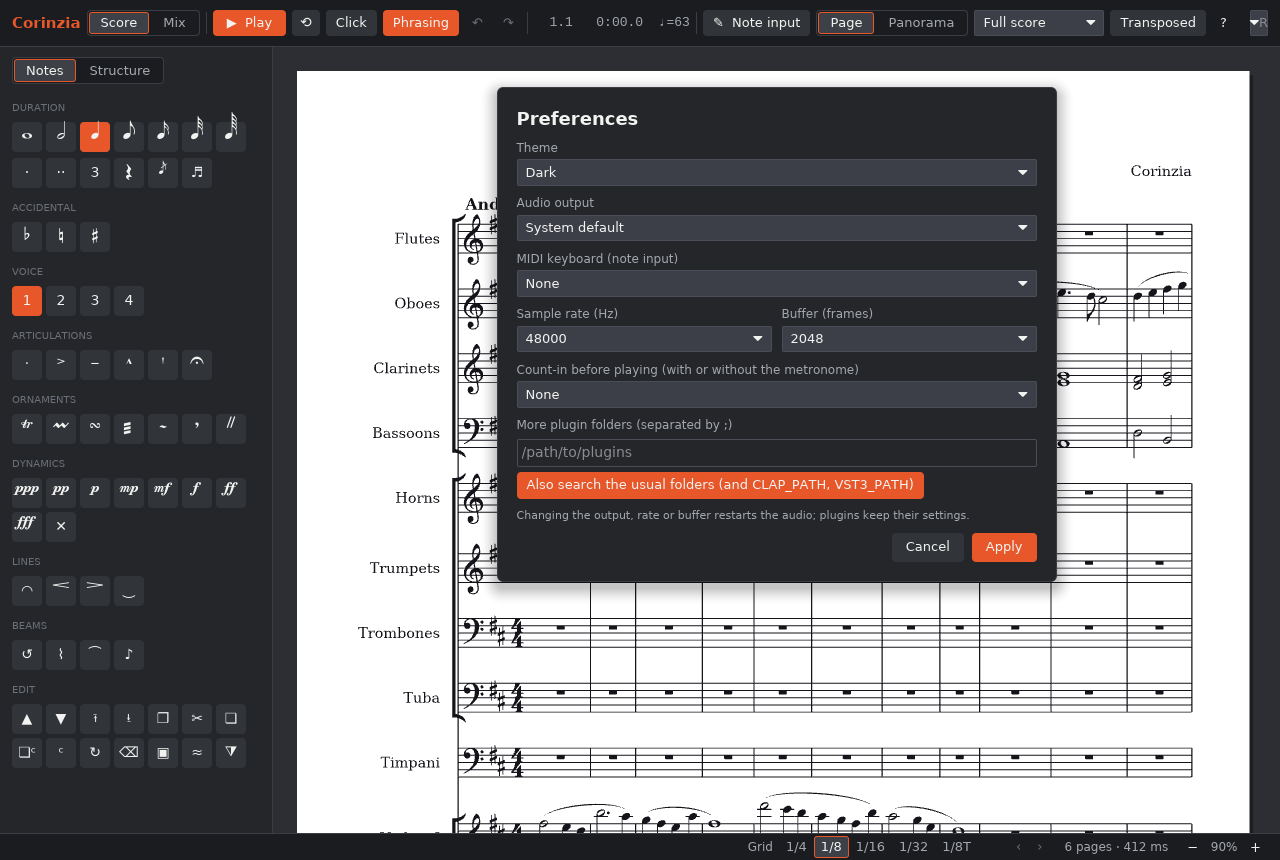
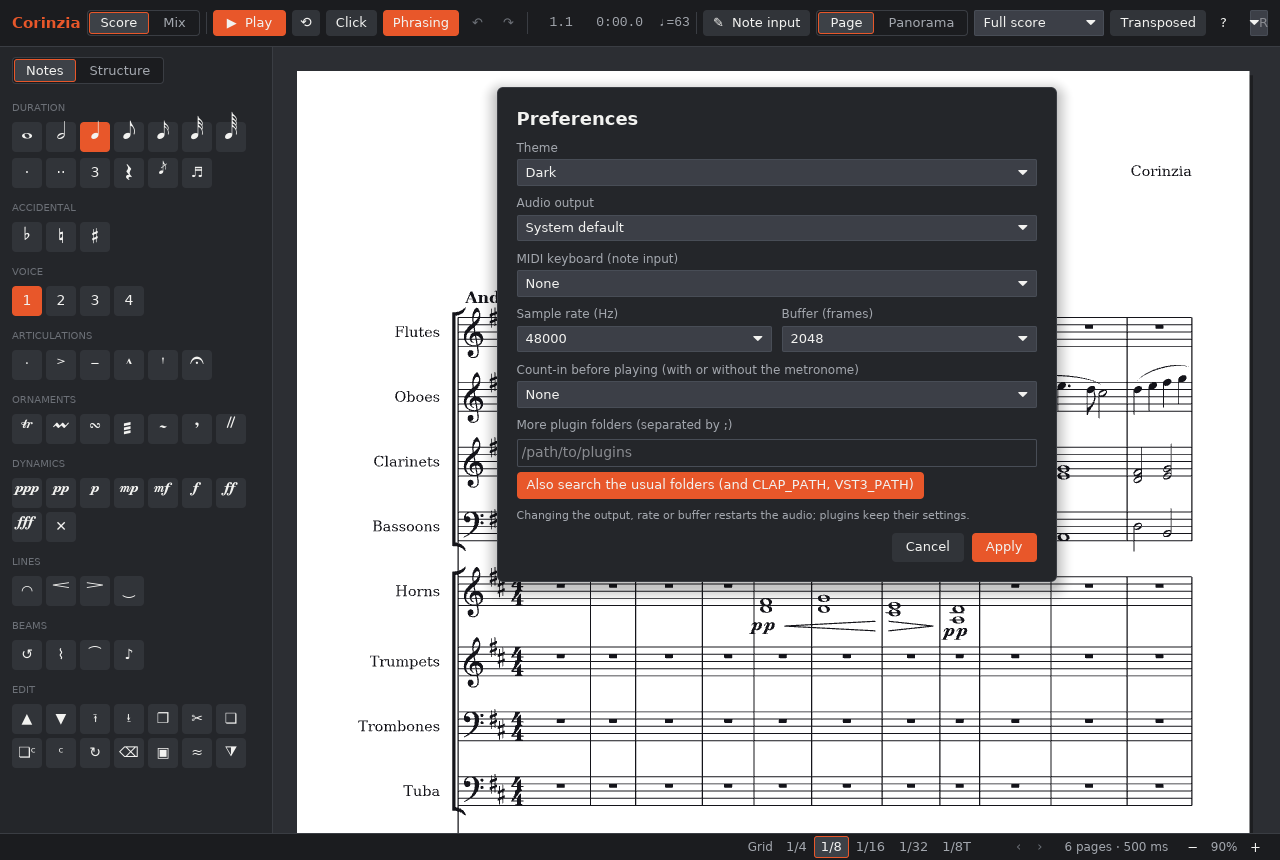
Systems on pages as LilyPond's vertical spacing places them
- Systems are spaced between their nearest staves' middle lines by
  LilyPond's paper defaults: top-system-spacing (6, padding 1),
  system-system-spacing (12, at least 8, padding 1 between the systems'
  skylines, stretchability 60), last-bottom-spacing (1, padding 1,
  stretchability 30), padding 0.5 below the title block.
- Page breaks as LilyPond's optimal page breaker weighs them: each page
  costs its force squared, stretched or squeezed; the last page only if
  squeezed. Every page but the last is filled to its bottom margin.
- The layout's system gap is now that padding; new projects start at
  LilyPond's 1 space (saved projects keep theirs).
- Docs, README and credits updated for this batch; README screenshots
  regenerated.

Claude-Session: https://claude.ai/code/session_01QjHNtvPJsKReBtAF1HaKBb

Changed region(s): [[0.2812, 0.2419, 0.9375, 0.9977]]

diff --git a/rust/corinzia-layout/src/layout.rs b/rust/corinzia-layout/src/layout.rs
@@ -193,7 +193,7 @@ fn dot_rows(positions: &[i32], dir: i32) -> Vec<i32> {
         let mut total = heads.len();
         let mut first = 0;
         while total > room {
-            if (total - room) % 2 == 0 {
+            if (total - room).is_multiple_of(2) {
                 first += 1;
             }
             total -= 1;
@@ -2325,7 +2325,6 @@ impl<'a> Engraver<'a> {
                 continue;
             }
             let top = self.top(n.part);
-            let center = |g: Glyph, s: &Self| n.x + HEAD_W / 2.0 - s.width(g) / 2.0;
             let poly = self.notes.iter().any(|o| o.part == n.part && o.measure == n.measure && o.voice != n.voice && !o.whole_bar);
             if !n.rest {
                 // Close articulations as LilyPond's Script: on the notehead
@@ -2337,7 +2336,7 @@ impl<'a> Engraver<'a> {
                 // too (it joins their support), by at least staff-padding.
                 let below = if poly { n.voice % 2 == 0 } else { n.stem_up };
                 let dir = if below { 1.0 } else { -1.0 }; // y down
-                let stem_side = n.has_stem() && n.stem_up == !below;
+                let stem_side = n.has_stem() && n.stem_up != below;
                 let outer = if below { n.heads[0].pos } else { n.heads[n.heads.len() - 1].pos };
                 let mut edge = self.y(n.part, outer) + dir * 0.5;
                 if stem_side {
@@ -3818,9 +3817,6 @@ fn system(score: &Score, opt: &Options, ms: &[Measure], notes: &[Note], a: usize
     engrave_spaced(score, opt, sm, sn, a == 0, width)
 }
 
-/// The most a full page's systems are moved apart to reach its bottom.
-const MAX_EXTRA_SYSTEM_GAP: f32 = 12.0;
-
 /// Page geometry in staff spaces (A4 at an 18 pt staff: 132.3 × 187.1).
 #[derive(Clone, Debug)]
 pub struct PageSpec {
@@ -3828,7 +3824,8 @@ pub struct PageSpec {
     pub height: f32,
     pub margin_x: f32,
     pub margin_y: f32,
-    /// Space between systems (between their outermost marks).
+    /// The least space between systems' outermost marks (LilyPond's
+    /// `system-system-spacing` padding; its other distances apply too).
     pub system_gap: f32,
     /// The number of the first page (a later movement goes on counting).
     pub first_page: usize,
@@ -3841,7 +3838,7 @@ pub struct PageSpec {
 }
 impl Default for PageSpec {
     fn default() -> Self {
-        PageSpec { width: 132.3, height: 187.1, margin_x: 8.0, margin_y: 8.0, system_gap: 4.0, first_page: 1, bars_per_system: 0, page_numbers: true, space_pt: 0.0 }
+        PageSpec { width: 132.3, height: 187.1, margin_x: 8.0, margin_y: 8.0, system_gap: 1.0, first_page: 1, bars_per_system: 0, page_numbers: true, space_pt: 0.0 }
     }
 }
 
@@ -3982,63 +3979,168 @@ pub fn layout_pages(score: &Score, opt: &Options, page: &PageSpec) -> Vec<Displa
         }
         y += 2.0;
     }
-    // Where each system's items and staves start on the current page, and
-    // how far down the page is used: full pages are justified vertically.
-    let mut starts: Vec<(usize, usize)> = Vec::new();
-    let mut used = y;
-    let fill = |page_list: &mut DisplayList, starts: &[(usize, usize)], used: f32| {
-        if starts.len() < 2 {
-            return;
+    // Engrave every system, then break pages and space the systems with
+    // LilyPond's flexible vertical spacing (in staff spaces, between the
+    // systems' nearest staves' middle lines):
+    //   top-system-spacing    basic 6,  minimum 0, padding 1
+    //   system-system-spacing basic 12, minimum 8, padding 1, stretch 60
+    //   last-bottom-spacing   basic 1,  minimum 0, padding 1, stretch 30
+    // and, below the title block, markup-system-spacing (padding 0.5,
+    // stretch 30). `system_gap` is the padding between systems.
+    let font = Font::bravura();
+    struct Sys {
+        list: DisplayList,
+        boxes: Vec<[f32; 4]>,
+        top_ref: f32, // the top staff's middle line, system y
+        bot_ref: f32, // the bottom staff's middle line
+        y0: f32,      // highest ink
+        y1: f32,      // lowest ink
+    }
+    let built: Vec<(usize, Sys)> = systems
+        .iter()
+        .map(|&(a, b)| {
+            let list = system(score, opt, &ms, &notes, a, b, Some(line + opt.margin));
+            let mut boxes: Vec<[f32; 4]> = list.items.iter().map(|it| it.bounds(font)).filter(|r| r.iter().all(|v| v.is_finite())).collect();
+            boxes.extend(list.staves.iter().map(|st| [st.left, st.top, st.right, st.top + if st.single { 2.0 } else { 4.0 }]));
+            let y0 = boxes.iter().map(|r| r[1]).fold(0.0f32, f32::min);
+            let y1 = boxes.iter().map(|r| r[3]).fold(list.height, f32::max);
+            let top_ref = list.staves.first().map(|st| st.top + 2.0).unwrap_or(0.0);
+            let bot_ref = list.staves.last().map(|st| st.top + 2.0).unwrap_or(top_ref);
+            (a, Sys { list, boxes, top_ref, bot_ref, y0, y1 })
+        })
+        .collect();
+    // How far apart two systems' reference points must be for their ink to
+    // keep `padding` apart where it overlaps horizontally.
+    let skyline = |u: &Sys, l: &Sys, padding: f32| -> f32 {
+        let mut need = f32::MIN;
+        for p in &u.boxes {
+            for q in &l.boxes {
+                if p[0] < q[2] && q[0] < p[2] {
+                    need = need.max((p[3] - u.bot_ref) - (q[1] - l.top_ref) + padding);
+                }
+            }
         }
-        let extra = (page.height - page.margin_y - used).max(0.0);
-        let gap = (extra / (starts.len() - 1) as f32).min(MAX_EXTRA_SYSTEM_GAP);
-        for (k, w) in starts.iter().enumerate().skip(1) {
-            let end = starts.get(k + 1).copied().unwrap_or((page_list.items.len(), page_list.staves.len()));
-            let dy = gap * k as f32;
-            for it in &mut page_list.items[w.0..end.0] {
-                *it = it.clone().translated(0.0, dy);
-            }
-            for st in &mut page_list.staves[w.1..end.1] {
-                st.top += dy;
-            }
+        need
+    };
+    // A spring: (minimum, ideal, stretchability).
+    let between = |u: &Sys, l: &Sys| {
+        let min = skyline(u, l, page.system_gap).max(8.0);
+        (min, min.max(12.0), 60.0)
+    };
+    let header_bottom = y; // below the title block, first page only
+    let top_spring = |sys: &Sys, first: bool| {
+        if first && header_bottom > page.margin_y {
+            let min = header_bottom + 0.5 - page.margin_y + (sys.top_ref - sys.y0);
+            (min, min, 30.0)
+        } else {
+            let min = (sys.top_ref - sys.y0 + 1.0).max(0.0);
+            (min, min.max(6.0), 0.0)
         }
     };
-    for &(a, b) in &systems {
-        let sys = system(score, opt, &ms, &notes, a, b, Some(line + opt.margin));
-        let font = Font::bravura();
-        let (mut y0, mut y1) = (0.0f32, sys.height);
-        for it in &sys.items {
-            let r = it.bounds(font);
-            y0 = y0.min(r[1]);
-            y1 = y1.max(r[3]);
+    let bottom_spring = |sys: &Sys| {
+        let min = (sys.y1 - sys.bot_ref + 1.0).max(0.0);
+        (min, min.max(1.0), 30.0)
+    };
+    let avail = page.height - 2.0 * page.margin_y;
+    // The springs and fixed heights of systems lo..hi on one page.
+    let springs_of = |lo: usize, hi: usize, first: bool| -> (Vec<(f32, f32, f32)>, f32) {
+        let mut sp = vec![top_spring(&built[lo].1, first)];
+        for k in lo + 1..hi {
+            sp.push(between(&built[k - 1].1, &built[k].1));
         }
-        let mut offset = y - y0;
-        let page_break = page_breaks.contains(&a);
-        if (page_break || offset + y1 > page.height - page.margin_y) && !cur.staves.is_empty() {
-            fill(&mut cur, &starts, used);
-            starts.clear();
+        sp.push(bottom_spring(&built[hi - 1].1));
+        let fixed = (lo..hi).map(|k| built[k].1.bot_ref - built[k].1.top_ref).sum::<f32>();
+        (sp, fixed)
+    };
+    // The force that fills `room` (positive: stretched, negative: pressed
+    // towards the minima; None: the minima don't fit).
+    let force = |sp: &[(f32, f32, f32)], room: f32| -> Option<f32> {
+        let min: f32 = sp.iter().map(|s| s.0).sum();
+        if min > room + 1e-3 {
+            return None;
+        }
+        let ideal: f32 = sp.iter().map(|s| s.1).sum();
+        let stretch: f32 = sp.iter().map(|s| s.2).sum();
+        Some(if ideal <= room { if stretch > 0.0 { (room - ideal) / stretch } else { 0.0 } } else { -(ideal - room) / (ideal - min).max(1e-3) })
+    };
+    let length = |s: (f32, f32, f32), f: f32| if f >= 0.0 { s.1 + f * s.2 } else { s.1 + f * (s.1 - s.0) };
+    // Page breaks as LilyPond's optimal page breaker weighs them: each page
+    // costs its force squared, stretched or squeezed (the last page only if
+    // squeezed: it may stay short), and the cheapest set of pages wins.
+    let starts_page = |k: usize| k > 0 && page_breaks.contains(&built[k].0);
+    let n = built.len();
+    let fits = |lo: usize, hi: usize| -> Option<f32> {
+        if (lo + 1..hi).any(starts_page) {
+            return None;
+        }
+        let (sp, fixed) = springs_of(lo, hi, lo == 0);
+        force(&sp, avail - fixed)
+    };
+    // best[k] = (pages, cost) for systems 0..k, from[k] = where its last page starts.
+    let mut best = vec![(usize::MAX, f32::INFINITY); n + 1];
+    let mut from = vec![0usize; n + 1];
+    best[0] = (0, 0.0);
+    for hi in 1..=n {
+        for lo in (0..hi).rev() {
+            if best[lo].0 == usize::MAX {
+                continue;
+            }
+            let f = match fits(lo, hi) {
+                Some(f) => f,
+                None if hi - lo == 1 => 0.0, // a system taller than the page
+                None => break,
+            };
+            // The last page may stay short, but not be squeezed for free.
+            let cost = if hi == n { f.min(0.0).powi(2) } else { f * f };
+            let cand = (best[lo].0 + 1, best[lo].1 + cost);
+            if cand.1 < best[hi].1 || cand.1 == best[hi].1 && cand.0 < best[hi].0 {
+                best[hi] = cand;
+                from[hi] = lo;
+            }
+            if starts_page(lo) {
+                break;
+            }
+        }
+    }
+    let mut ranges = Vec::new();
+    let mut hi = n;
+    while hi > 0 {
+        ranges.push((from[hi], hi));
+        hi = from[hi];
+    }
+    ranges.reverse();
+    for (pi, &(lo, hi)) in ranges.iter().enumerate() {
+        if pi > 0 {
             pages.push(std::mem::replace(&mut cur, new_page()));
-            y = page.margin_y;
-            offset = y - y0;
         }
-        starts.push((cur.items.len(), cur.staves.len()));
-        let (dx, dy) = (page.margin_x - opt.margin, offset);
-        let sys_index = cur.staves.last().map(|s| s.system + 1).unwrap_or(0);
-        cur.items.extend(sys.items.into_iter().map(|i| i.translated(dx, dy)));
-        cur.staves.extend(sys.staves.into_iter().map(|mut st| {
-            st.top += dy;
-            st.left += dx;
-            st.right += dx;
-            st.system = sys_index;
-            st
-        }));
-        cur.columns.extend(sys.columns.into_iter().map(|mut c| {
-            c.x += dx;
-            c.system = sys_index;
-            c
-        }));
-        used = offset + y1;
-        y = used + page.system_gap;
+        let (sp, fixed) = springs_of(lo, hi, lo == 0);
+        let last = pi + 1 == ranges.len();
+        // The last page stays ragged at the bottom (ragged-last-bottom),
+        // pressed only if it must be.
+        let f = force(&sp, avail - fixed).unwrap_or(-1.0);
+        let f = if last { f.min(0.0) } else { f };
+        let mut y = page.margin_y;
+        for (k, idx) in (lo..hi).enumerate() {
+            y += length(sp[k], f);
+            let sys = &built[idx].1;
+            let dy = y - sys.top_ref;
+            let dx = page.margin_x - opt.margin;
+            let sys_index = cur.staves.last().map(|s| s.system + 1).unwrap_or(0);
+            cur.items.extend(sys.list.items.iter().cloned().map(|i| i.translated(dx, dy)));
+            cur.staves.extend(sys.list.staves.iter().cloned().map(|mut st| {
+                st.top += dy;
+                st.left += dx;
+                st.right += dx;
+                st.system = sys_index;
+                st
+            }));
+            cur.columns.extend(sys.list.columns.iter().cloned().map(|mut c| {
+                c.x += dx;
+                c.system = sys_index;
+                c
+            }));
+            y = dy + sys.bot_ref;
+        }
     }
     // (The last page stays ragged at the bottom, as in LilyPond.)
     pages.push(cur);

diff --git a/rust/corinzia-model/src/model.rs b/rust/corinzia-model/src/model.rs
@@ -479,7 +479,7 @@ pub struct Layout {
 impl Default for Layout {
     /// A4 with an 18 pt staff, as LilyPond's default.
     fn default() -> Self {
-        Layout { page_width_mm: 210.0, page_height_mm: 297.0, landscape: false, staff_mm: 6.35, margin_y_mm: 12.7, margin_x_mm: 12.7, spacing: 1.0, staff_distance: 9.0, system_gap: 4.0, bars_per_system: 0, page_numbers: true, condense: false }
+        Layout { page_width_mm: 210.0, page_height_mm: 297.0, landscape: false, staff_mm: 6.35, margin_y_mm: 12.7, margin_x_mm: 12.7, spacing: 1.0, staff_distance: 9.0, system_gap: 1.0, bars_per_system: 0, page_numbers: true, condense: false }
     }
 }
 

diff --git a/docs/ARCHITECTURE.md b/docs/ARCHITECTURE.md
@@ -207,7 +207,7 @@ position (`-dbackend=null`), and compares the gaps. The current corpus has
   rests fill whole dotted beats.
 * Tuplets: their notes are written by the ratio, and beams break at their
   edges (LilyPond beams 4/4 triplet eighths in threes). One beam over a
-  whole tuplet carries just the number, next to the beam; otherwise a
+  whole tuplet carries just the number, following the beam; otherwise a
   bracket with the number in a gap. Spacing uses sounding time, and
   matches LilyPond's for triplets, quintuplets and sextuplets.
 * Bar numbers start every system but the first.
@@ -236,7 +236,20 @@ position (`-dbackend=null`), and compares the gaps. The current corpus has
 * Grace notes are drawn at LilyPond's grace size (0.707) left of their
   note and its accidentals, with their own accidentals and ledger lines,
   stems up in voices 1 and 3, a flag or a beam over a group, and the
-  acciaccatura's slash; the spacing keeps room for them.
+  acciaccatura's slash; the spacing keeps room for them, and compression
+  never squeezes them into the note before. Slurs encompass the graces
+  inside them; graces on a beat end an automatic beam.
+* Articulations follow LilyPond's Script settings: on the head side,
+  stacked by script-priority, padding 0.2 from the note; staccato,
+  staccatissimo, tenuto and marcato quantized into spaces; accents clear of
+  the staff by staff-padding 0.25. Fermatas, trills, turns, mordents and
+  bowings stack above in script-priority order (fermata padding 0.4).
+* Chord dots follow LilyPond's dot configuration: one per head, each in a
+  space, shifted up or down at the least cost when two would meet.
+* Tuplet brackets follow `tuplet-bracket.cc`: the side most stems point to,
+  sloped by the outer notes (at most 0.5), padding 1.1 from every column,
+  staff-padding 0.25, level ones kept off staff lines, the number centred
+  on the bracket.
 
 **Marks around the staff.** Each staff has a skyline: the boxes of
 everything drawn so far. Outer marks are placed against it from the staff
@@ -275,7 +288,18 @@ Items that join staves (barlines) belong to no staff's skyline.
 * `tests/lilypond.rs` also checks justified lines and system breaks against
   LilyPond. The breaks match at 23 of 30 line widths.
 * Ties and endings that cross a break are split.
-* Systems are stacked by their real extents onto pages, by default A4
+* Systems are spaced on pages by LilyPond's flexible vertical spacing,
+  between the middle lines of the nearest staves: `top-system-spacing`
+  (6, padding 1), `system-system-spacing` (12, at least 8, padding 1 between
+  the two systems' skylines, stretchability 60), `last-bottom-spacing`
+  (1, padding 1, stretchability 30), and below the title block padding 0.5.
+  The layout's system gap is the padding between systems.
+* Page breaks follow LilyPond's optimal page breaker: each page costs the
+  square of the force that fills it (stretched or squeezed towards the
+  minima), the last page only if squeezed, and the cheapest set wins. Every
+  page but the last is filled to its bottom margin (`ragged-bottom = ##f`,
+  `ragged-last-bottom = ##t`).
+* Pages are by default A4
   (132.3 × 187.1 staff spaces at an 18 pt staff), with the title block on
   page 1: title, subtitle, the movement's title; the instrument and the
   lyricist flush left; the composer and the arranger flush right. The

diff --git a/THIRD-PARTY-NOTICES.md b/THIRD-PARTY-NOTICES.md
@@ -12,7 +12,7 @@ listed here, and say so in the files that contain them.
 | `rust/corinzia-audio/src/loudness.rs` (K-weighting design, true-peak interpolator) | SoundCraft, `crates/dsp/src/meter.rs` | MIT |
 | `rust/corinzia-layout/src/beam.rs` (beam quanting with collisions and knees, stems' ideal and shortest lengths) | GNU LilyPond, `lily/beam-quanting.cc`, `lily/stem.cc`, `scm/define-grobs.scm` | GPL-3.0-or-later |
 | `rust/corinzia-layout/src/slur.rs` (slur placement and scoring) | GNU LilyPond, `lily/slur-scoring.cc`, `lily/slur-configuration.cc`, `lily/bezier-bow.cc`, `scm/layout-slur.scm`, https://lilypond.org | GPL-3.0-or-later |
-| `rust/corinzia-layout/src/layout.rs` (dynamics' and hairpins' padding; ties' shape, placement, directions, single-tie variations, dot collisions and chords' tie columns, `tie_shape` and `draw_ties`; chords' accidentals, `place_accidentals`; rests clear of other voices' notes and rests; duration spacing below the shortest note) | GNU LilyPond, `scm/define-grobs.scm`, `lily/tie-formatting-problem.cc`, `lily/tie-configuration.cc`, `lily/tie.cc`, `lily/accidental-placement.cc`, `lily/rest-collision.cc`, `lily/spacing-options.cc` | GPL-3.0-or-later |
+| `rust/corinzia-layout/src/layout.rs` (dynamics' and hairpins' padding; ties' shape, placement, directions, single-tie variations, dot collisions and chords' tie columns, `tie_shape` and `draw_ties`; chords' accidentals, `place_accidentals`; rests clear of other voices' notes and rests; duration spacing below the shortest note; hairpin ends; articulation placement; tuplet brackets, `draw_tuplets`; chord dots, `dot_rows`; vertical spacing and page breaking in `layout_pages`) | GNU LilyPond, `scm/define-grobs.scm`, `scm/script.scm`, `ly/paper-defaults-init.ly`, `lily/tie-formatting-problem.cc`, `lily/tie-configuration.cc`, `lily/tie.cc`, `lily/accidental-placement.cc`, `lily/rest-collision.cc`, `lily/spacing-options.cc`, `lily/hairpin.cc`, `lily/side-position-interface.cc`, `lily/tuplet-bracket.cc`, `lily/dot-configuration.cc`, `lily/dot-column.cc` | GPL-3.0-or-later |
 
 ## GNU LilyPond
 

diff --git a/README.md b/README.md
@@ -75,10 +75,14 @@ time you type a note.
   LilyPond's shape and split up and down through a chord; a chord's
   accidentals stack in LilyPond's order, octaves aligned; rests step aside
   for another voice just as far as LilyPond moves them.
+* **Every mark where LilyPond puts it.** Staccatos, accents, fermatas and
+  trills sit at LilyPond's distances and in its order; tuplet brackets
+  slope with the notes; dotted chords get a dot for every note, each in its
+  own space.
 * **Spacing with LilyPond's proportions.** Notes take room by their length
   as LilyPond spaces them, dynamics and hairpins sit as close to the staff
-  as LilyPond puts them, and lines are broken and justified the way
-  LilyPond breaks them.
+  as LilyPond puts them, lines are broken and justified the way LilyPond
+  breaks them, and pages are filled with LilyPond's own system spacing.
 * **Live, as you write.** Unlike a compile-and-wait engraver, Corinzia
   re-engraves the page the instant you change a note, and PDFs come straight
   from the same engraver, so what you see is exactly what prints.
